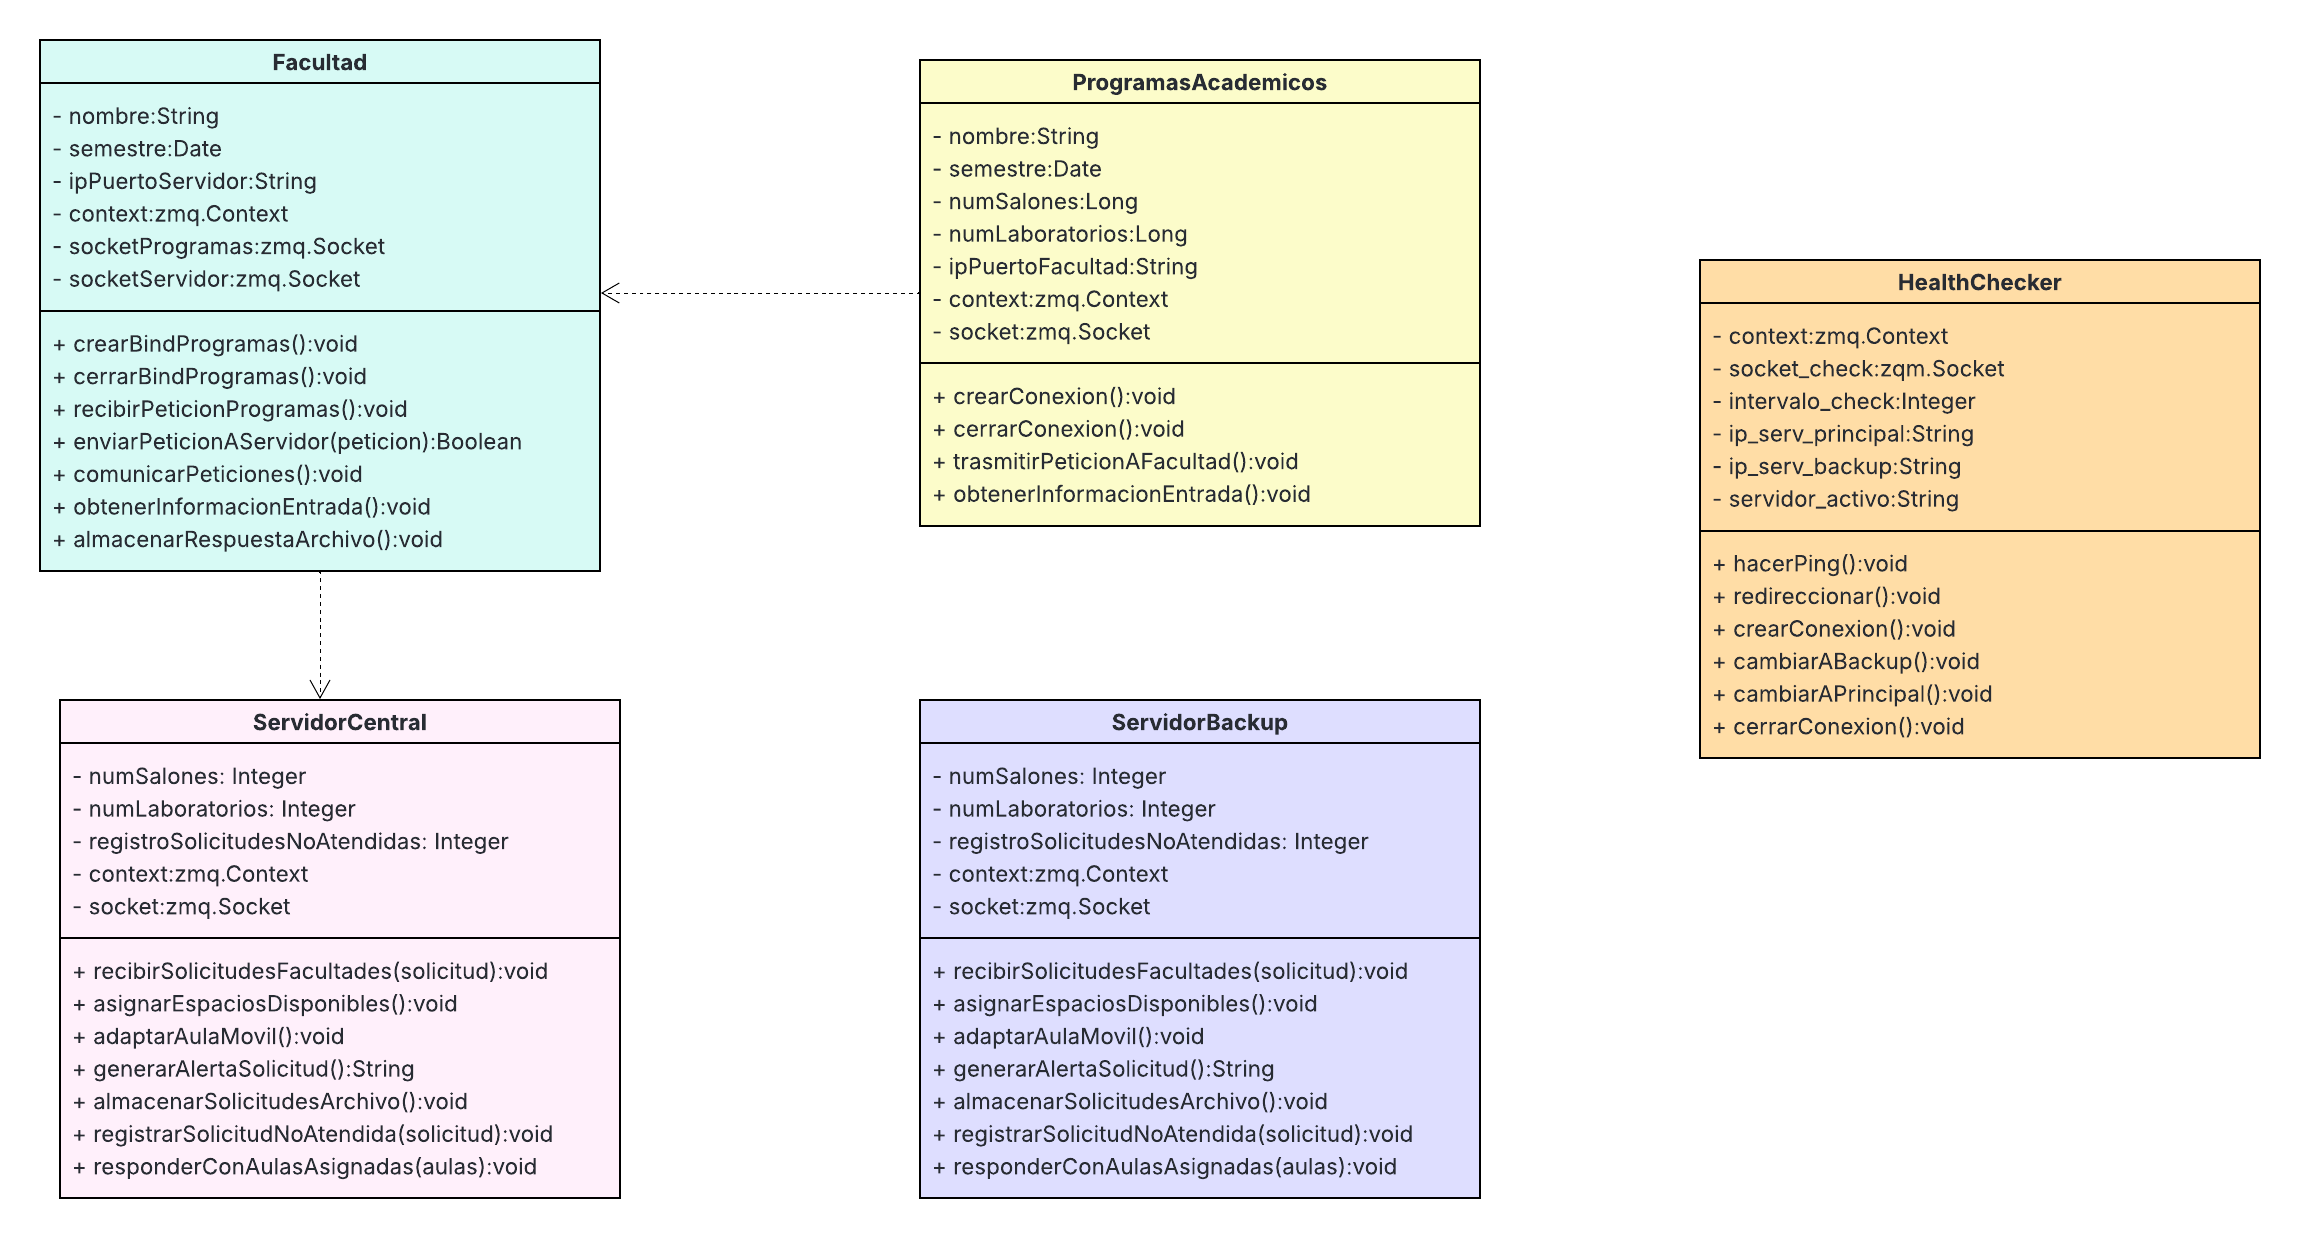
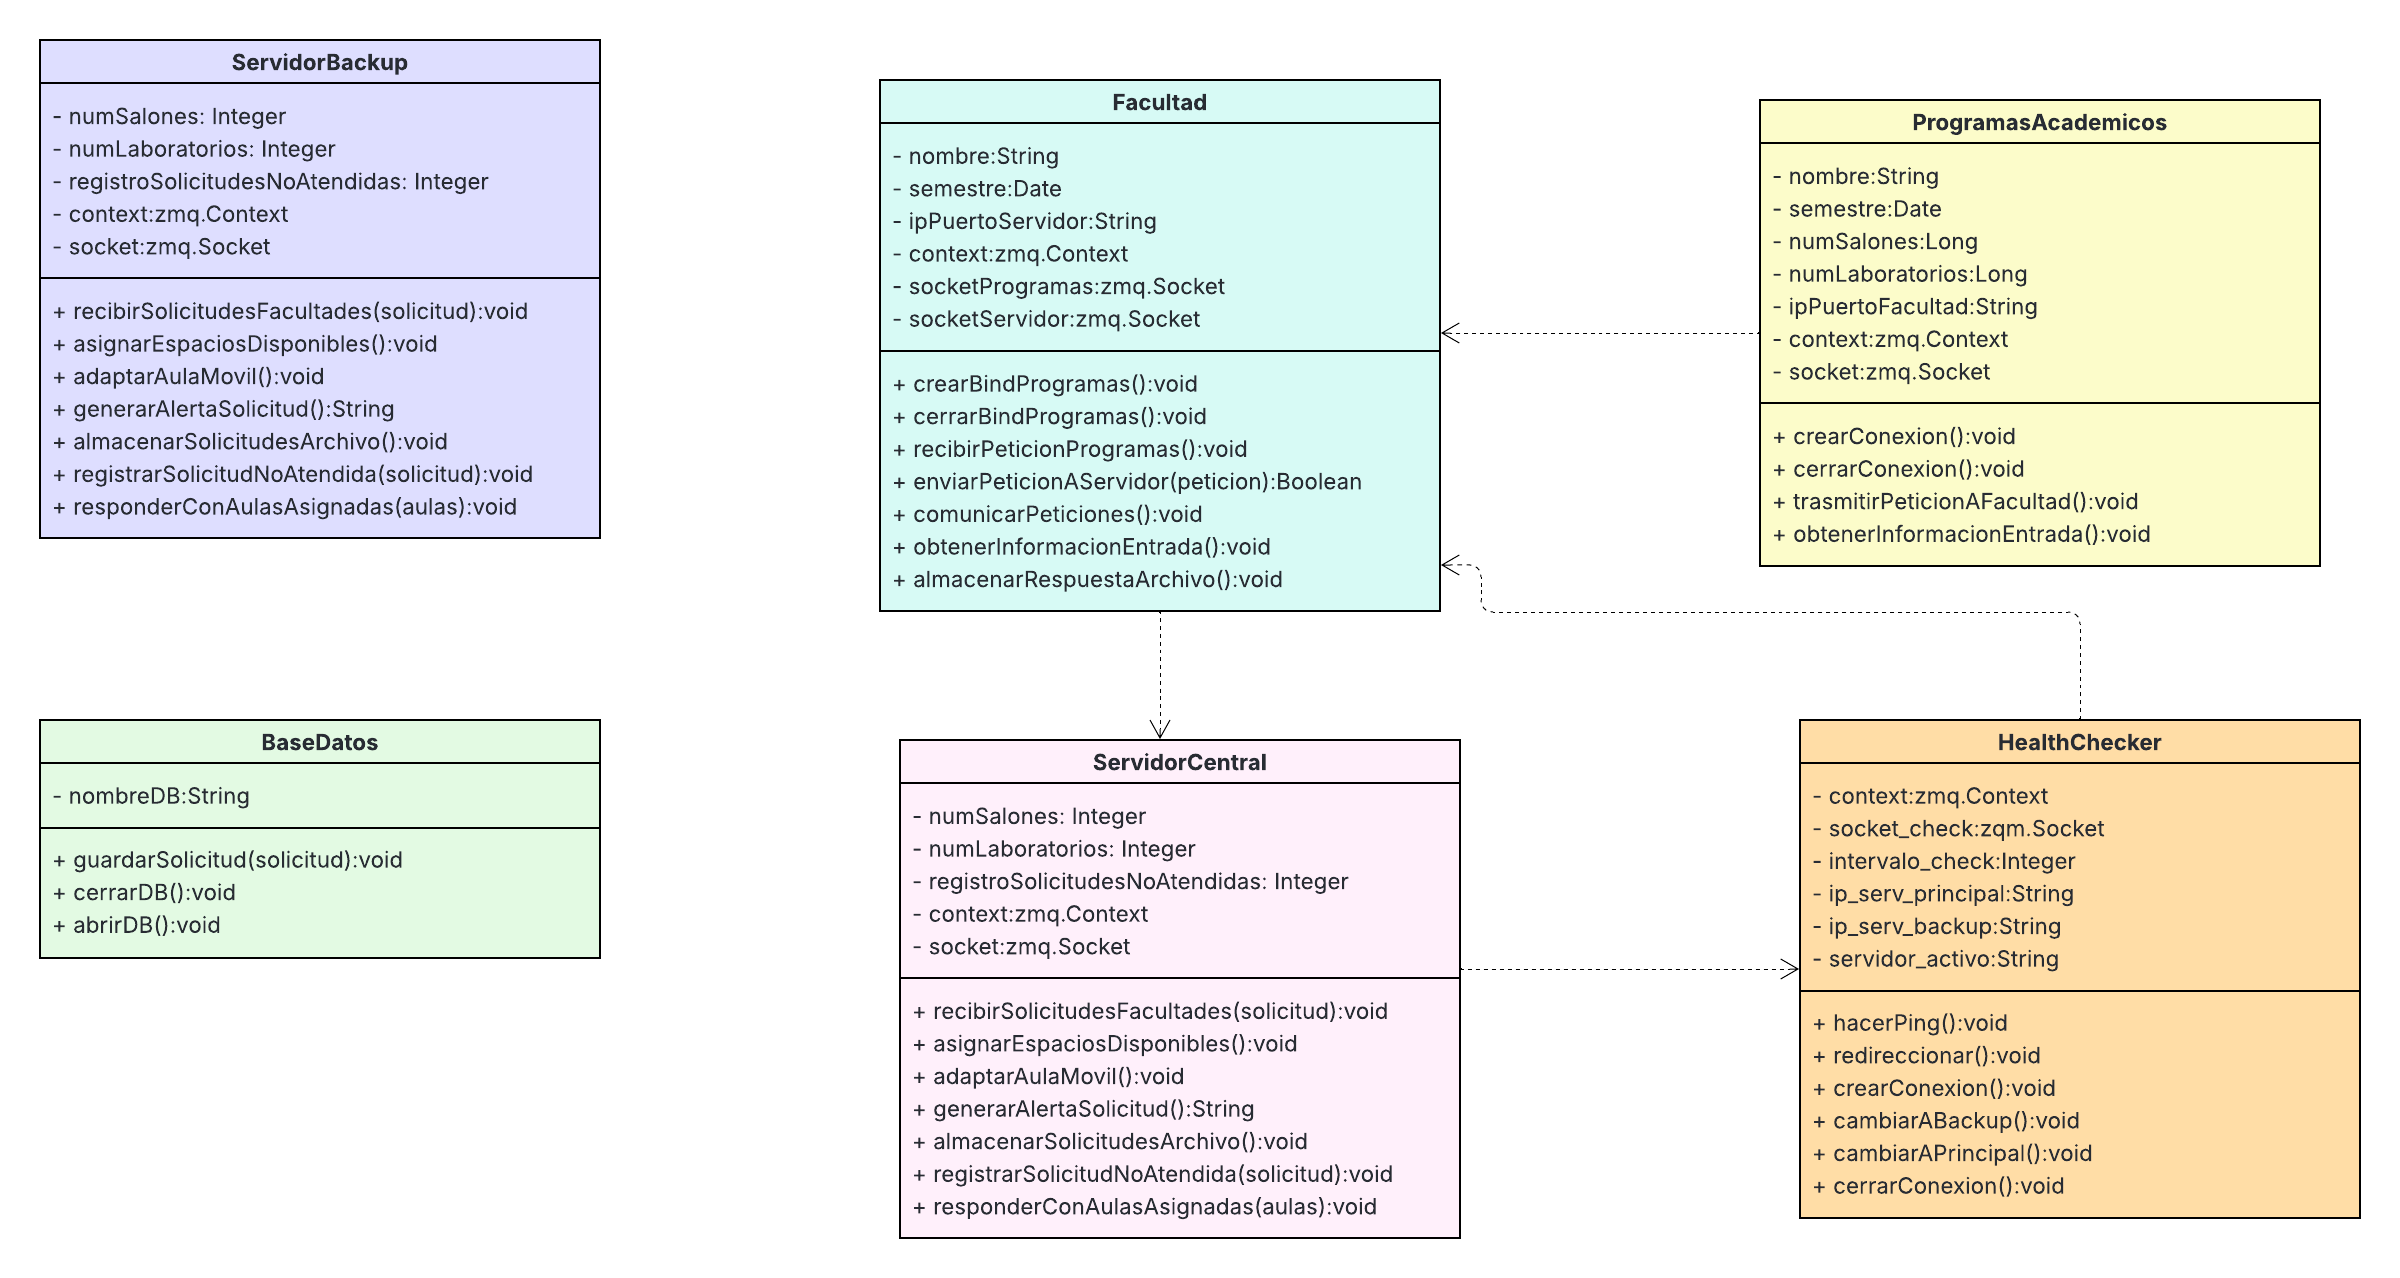
refactor: Se agrega base de datos

diff --git a/src/rep-req-asinc/servidor_central.py b/src/rep-req-asinc/servidor_central.py
@@ -17,6 +17,7 @@ class ServidorCentral:
   num_salones:int
   num_laboratorios:int
   solicitudes_fallidas:list
+  peticiones:list
   context:zmq.Context
   socket_facultades:zmq.Socket
   socket_health_checker:zmq.Socket
@@ -51,6 +52,20 @@ class ServidorCentral:
             self.num_salones = int(linea.split(":")[1].strip())
           elif linea.startswith("Laboratorios:"):
             self.num_laboratorios = int(linea.split(":")[1].strip())
+          else:
+            if linea.strip():
+              try:
+                partes = [p.strip() for p in linea.split(",")]
+                peticion = {
+                  "nombreFacultad": partes[0].split(":")[1].strip(),
+                  "nombrePrograma": partes[1].split(":")[1].strip(),
+                  "numSalones": int(partes[2].split(":")[1].strip()),
+                  "numLaboratorios": int(partes[3].split(":")[1].strip())
+                }
+                self.peticiones.append(peticion)
+              except Exception as e:
+                print(f"{YELLOW}Advertencia: No se puedo leer un registro: {e}{RESET}")
+
         db.close()
     except Exception as e:
       print(f"{RED}Hubo un error leyendo el archivo: Error: {e}{RESET}")
@@ -149,6 +164,11 @@ class ServidorCentral:
     self.db.write(peticion_txt)
 
   def cerrar_db(self):
+    for peticion in self.peticiones:
+      peticion_txt = f"Nombre Facultad: {peticion['nombreFacultad']}, Nombre Programa: {peticion['nombrePrograma']},"\
+      + f"Num Salones: {peticion['numSalones']}, Num Laboratorios: {peticion['numLaboratorios']}\n"
+      self.db.write(peticion_txt)
+
     self.db.write(f"Salones: {self.num_salones}\n")
     self.db.write(f"Laboratorios: {self.num_laboratorios}\n")
     self.db.close()

diff --git a/README.md b/README.md
@@ -31,29 +31,34 @@ Para instalar las dependencias necesarias, ejecutar:
 pip install pyzmq
 ```
 
-Para ejecutar cada componente del proyecto, utilizar los siguientes comandos en la raíz del proyecto:
+Para ejecutar cada componente del proyecto, utilizar los siguientes comandos en el directorio correspondiente a la version del proyecto
+
+## request-reply(asincrono)
+
+### Health checker
+```bash
+python health_checker.py
+```
+
+### Servidor central
+```bash
+python servidor_central.py
+```
+
+### Facultad
+```bash
+python facultad.py -n Ciencias -s 05-2025 -ip-p-s localhost:5555 -puerto-escuchar 5556
+```
 
 ### Programa académico
 ```bash
-python src/rep-req-asinc/programa_academico.py
-```
-### Facultad
-```bash
-python src/rep-req-asinc/facultad.py
-```
-### Servidor central
-```bash
-python src/rep-req-asinc/servidor_central.py
-```
-### Servidor respaldo
-```bash
-python src/rep-req-asinc/servidor_respaldo.py
-```
-### Health checker
-```bash
-python src/rep-req-asinc/health_checker.py
+python programa_academico.py -n Matematicas -s 05-2025 -num-s 8 -num-l 3 -ip-p-f localhost:5556
 ```
 
+### Servidor respaldo
+```bash
+python servidor_respaldo.py
+```
 ---
 
 ## Digramas del Sistema
